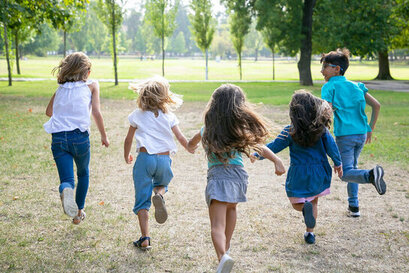
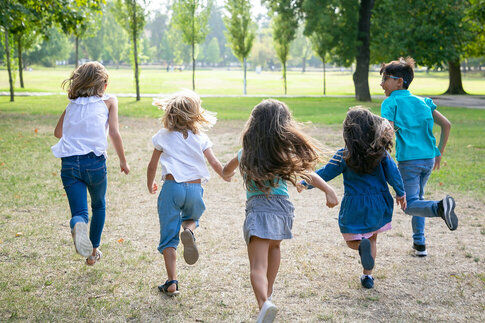
Add sharper gallery 6 image

diff --git a/index.html b/index.html
@@ -187,7 +187,7 @@
             <img src="./assets/images/gallery5.jpg" alt="Kids painted hands forming a heart shape" class="round-img-fluid">
           </div>
           <div class="col-lg-4 col-md-4 col-sm-12">
-            <img src="./assets/images/gallery6.jpg" alt="Child doing homework" class="round-img-fluid">
+            <img src="./assets/images/gallery6.jpeg" alt="Child doing homework" class="round-img-fluid">
           </div>
           <div class="col-lg-4 col-md-4 col-sm-12">
             <img src="./assets/images/gallery7.jpg" alt="Group of kids under a circle rainbow sheet" class="round-img-fluid">
